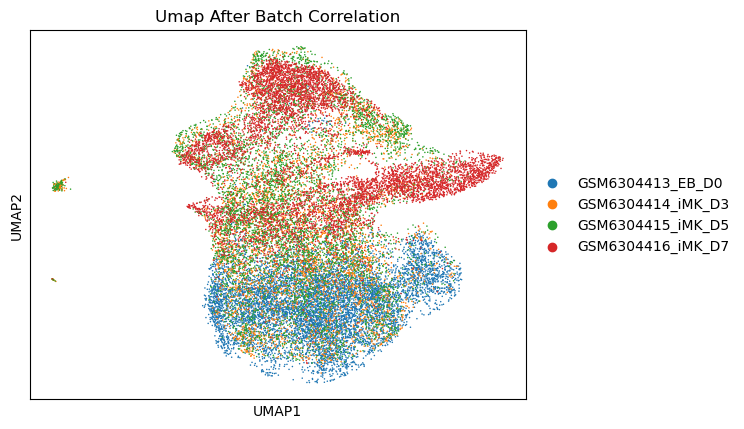
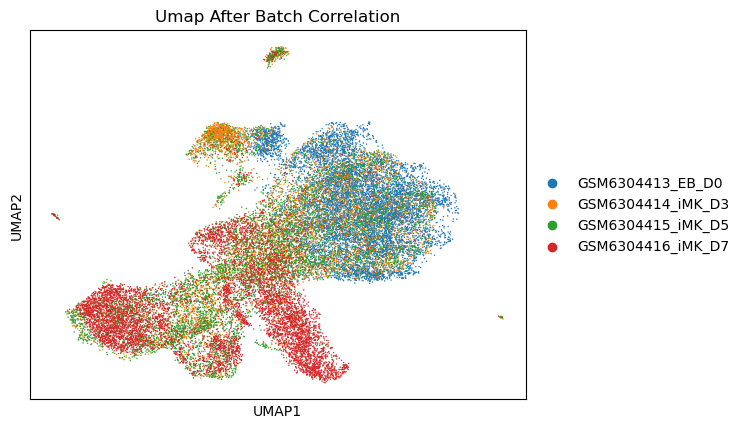
Update cell annotation

Changed region(s): [[0.0927, 0.0909, 0.6801, 0.9091], [0.0618, 0.3939, 0.0927, 0.4545], [0.0618, 0.4848, 0.0927, 0.5152]]

diff --git a/pipeline.py b/pipeline.py
@@ -5,6 +5,7 @@ import matplotlib.pyplot as plt
 import numpy as np
 import pandas as pd
 import scanpy as sc
+import warnings
 
 # %%
 # Load datasets
@@ -29,58 +30,66 @@ for subdir in subdata_dirs:
 print(f"Loaded {len(adatas)} datasets.")
 
 # %%
-# filtering
-## 计算线粒体比例
-for i, ad in enumerate(adatas):
-    ad.var["mt"] = ad.var_names.str.startswith("MT-")
-    sc.pp.calculate_qc_metrics(
-        ad, qc_vars=["mt"], percent_top=None, log1p=False, inplace=True
-    )
+# Merge datasets BEFORE QC
+adata_raw_combined = adatas[0].concatenate(
+    adatas[1:],
+    batch_key="sample",  # 标记原始来源
+    batch_categories=subdata_dirs,  # 名称
+    index_unique="-",
+)
 
-## 绘制QC前指标
-fig, axes = plt.subplots(3, 4, figsize=(12, 8))
-plt.suptitle("Before QC")
+# 计算线粒体比例并做 QC metrics
+adata_raw_combined.var["mt"] = adata_raw_combined.var_names.str.startswith("MT-")
+sc.pp.calculate_qc_metrics(
+    adata_raw_combined, qc_vars=["mt"], percent_top=None, log1p=False, inplace=True
+)
+
+# 绘制 QC 前整体指标（不分组）
 metrics = ["n_genes_by_counts", "total_counts", "pct_counts_mt"]
-for row_idx, metric in enumerate(metrics):
-    for col_idx, ad in enumerate(adatas):
-        sc.pl.violin(ad, [metric], jitter=0.4, ax=axes[row_idx, col_idx], show=False)
-        # Set titles only for top row and leftmost column for clarity
-        if row_idx == 0:
-            axes[row_idx, col_idx].set_title(titles[col_idx])
-        if col_idx == 0:
-            axes[row_idx, col_idx].set_ylabel(metric.replace("_", " ").title())
+fig, axes = plt.subplots(1, 3, figsize=(14, 4))
+plt.suptitle("Before QC (Merged Overall)")
+for i, metric in enumerate(metrics):
+    sc.pl.violin(
+        adata_raw_combined,
+        [metric],
+        jitter=0.4,
+        ax=axes[i],
+        show=False,
+    )
+    axes[i].set_ylabel(metric.replace("_", " ").title())
+    axes[i].set_title(metric.replace("_", " ").title())
 plt.tight_layout()
 plt.savefig("figures/1c_1.png")
 
-## 绘制QC后指标
-adata_new = []
-for i, ad in enumerate(adatas):
-    ad_filtered = ad[(ad.obs.n_genes_by_counts > 2500) & (ad.obs.pct_counts_mt < 15)].copy()
-    sc.pp.filter_cells(ad_filtered, min_genes=200)
-    sc.pp.filter_genes(ad_filtered, min_cells=3)
-    adata_new.append(ad_filtered)
-    del ad  # 释放内存
+# 过滤（merged data）
+adata_combined = adata_raw_combined[
+    (adata_raw_combined.obs.total_counts >= 2500)
+    & (adata_raw_combined.obs.pct_counts_mt < 15)
+].copy()
+sc.pp.filter_cells(adata_combined, min_genes=200)
+sc.pp.filter_genes(adata_combined, min_cells=3)
 
-fig, axes = plt.subplots(3, 4, figsize=(12, 8))
-plt.suptitle("After QC")
-metrics = ["n_genes_by_counts", "total_counts", "pct_counts_mt"]
-for row_idx, metric in enumerate(metrics):
-    for col_idx, ad in enumerate(adata_new):  # 使用过滤后的数据
-        sc.pl.violin(ad, [metric], jitter=0.4, ax=axes[row_idx, col_idx], show=False)
-        # Set titles only for top row and leftmost column for clarity
-        if row_idx == 0:
-            axes[row_idx, col_idx].set_title(titles[col_idx])
-        if col_idx == 0:
-            axes[row_idx, col_idx].set_ylabel(metric.replace("_", " ").title())
+# 绘制 QC 后整体指标
+fig, axes = plt.subplots(1, 3, figsize=(14, 4))
+plt.suptitle("After QC (Merged Overall)")
+for i, metric in enumerate(metrics):
+    sc.pl.violin(
+        adata_combined,
+        [metric],
+        jitter=0.4,
+        ax=axes[i],
+        show=False,
+    )
+    axes[i].set_ylabel(metric.replace("_", " ").title())
+    axes[i].set_title(metric.replace("_", " ").title())
 plt.tight_layout()
 plt.savefig("figures/1c_2.png")
 
-# 对过滤后的数据进行标准化
-for i, ad in enumerate(adata_new):
-    sc.pp.normalize_total(ad, target_sum=1e4)
-    sc.pp.log1p(ad)
-    
-print("QC and normalization completed.")
+# 对过滤后的 merged 数据进行标准化
+sc.pp.normalize_total(adata_combined, target_sum=1e4)
+sc.pp.log1p(adata_combined)
+
+print("QC and normalization completed on merged data.")
 
 # %%
 # 2. Batch Effect (Harmony)
@@ -88,18 +97,14 @@ import scanpy.external as sce
 
 print("Starting batch effect correction with Harmony...")
 ## 合并数据
-adata_combined = adata_new[0].concatenate(
-    adata_new[1:],
-    batch_key="sample",  # 标记原始来源
-    batch_categories=subdata_dirs,  # 名称
-    index_unique="-",
-)
+# 数据已在 QC 前合并并过滤，直接复用 adata_combined
 
 ## High variable genes: 计算高变基因但不进行过滤，保留所有基因用于后续标记基因分析（否则可能找不到marker）
 sc.pp.highly_variable_genes(
-    adata_combined, min_mean=0.0125, 
-    max_mean=3, min_disp=0.5, 
-    batch_key="sample"
+    adata_combined, 
+    n_top_genes=2000,  # Match paper
+    batch_key="sample",
+    flavor='seurat'
 )
 
 ### 转化为稀疏矩阵以节省内存
@@ -110,7 +115,7 @@ if not sp.issparse(adata_combined.X):
 
 # 只使用高变基因进行降维，但保留所有基因在数据中
 adata_combined.layers["scaled"] = adata_combined.X.copy()
-sc.pp.scale(adata_combined, max_value=10, layer="scaled", zero_center=False)
+sc.pp.scale(adata_combined, max_value=10, layer="scaled", zero_center=True)
 sc.tl.pca(adata_combined, svd_solver="arpack", use_highly_variable=True)
 adata_before = adata_combined.copy()
 
@@ -131,23 +136,22 @@ sc.pl.umap(
     color="sample",
     title="Umap Before Batch Correlation",
     save="3b_1_UMAP_Before.png",
-    show=False,
+    show=True,
 )
 sc.pl.umap(
     adata_combined,
     color="sample",
     title="Umap After Batch Correlation",
     save="3b_2_UMAP_After.png",
-    show=False,
+    show=True,
 )
 
 sc.tl.tsne(adata_before, use_rep="X_pca")
-sc.pl.tsne(adata_before, color="sample", save="3b_3_tSNE_Before.png", show=False)
+sc.pl.tsne(adata_before, color="sample", save="3b_3_tSNE_Before.png", show=True)
 del adata_before  # 释放内存
 
 sc.tl.tsne(adata_combined, use_rep="X_pca_harmony")
-sc.pl.tsne(adata_combined, color="sample", save="3b_3_tSNE_After.png", show=False)
-
+sc.pl.tsne(adata_combined, color="sample", save="3b_3_tSNE_After.png", show=True)
 adata_combined.write('./data/adata_processed.h5ad')
 print("Batch effect correction completed and data saved.")
 
@@ -160,70 +164,137 @@ print("Memory released.")
 # %%
 # 3. Cell Clustering and Annotation
 
+import scanpy as sc
+import numpy as np
+import pandas as pd
+import matplotlib.pyplot as plt
+
 ## Load processed data
 adata = sc.read('./data/adata_processed.h5ad')
 
-## Marker Genes from Figure 5e
-megakaryocyte_markers = ["ITGA3", "ITGA6", "GP1BA", "GP9", "F2R"]
-erythroid_markers = ["GYPA", "KLF1", "EPB42"]
-progenitor_markers = ["ANXA1", "CD44", "LMO4"]
-cd53_marker = ["CD53"]
+eryth_genes = ["GYPA", "KLF1", "EPB42"]
+prog_genes = ["ANXA1", "CD44", "LMO4"]
+mega_genes = ["ITGA3", "ITGA6", "GP1BA", "GP9", "F2R"]
+cd53_genes = ["CD53"]
 
+# Leiden clustering, resolution is the same as paper
+sc.tl.leiden(adata, resolution=1.5e-5, key_added='leiden')
 
-## Cluster
-sc.tl.leiden(adata, resolution=0.5)
-sc.tl.rank_genes_groups(adata, 'leiden', method='wilcoxon')
+print(f"Number of clusters: {adata.obs['leiden'].nunique()}")
+print(f"Cluster sizes:\n{adata.obs['leiden'].value_counts().sort_index()}")
 
-sc.pl.dotplot(adata,
-              megakaryocyte_markers + erythroid_markers +
-              progenitor_markers + cd53_marker,
-              groupby='leiden',
-              save="3a_markers_dotplot.png")
+# CALCULATE GENE SCORES
+sc.tl.score_genes(adata, eryth_genes, score_name='erythroid_score')
+sc.tl.score_genes(adata, prog_genes, score_name='progenitor_score')
+sc.tl.score_genes(adata, mega_genes, score_name='megakaryocyte_score')
 
-## 用scanpy内置的scoring功能annotate
-def annotation_with_scoring(adata):
-    # 计算每组基因的score
-    sc.tl.score_genes(adata, megakaryocyte_markers, score_name='mega_score')
-    sc.tl.score_genes(adata, erythroid_markers, score_name='eryth_score')
-    sc.tl.score_genes(adata, progenitor_markers, score_name='prog_score')
-    
-    # 基于score注释
-    def assign_celltype(row):
-        scores = {
-            'mega': row['mega_score'],
-            'eryth': row['eryth_score'],
-            'prog': row['prog_score']
-        }
-        
-        max_score_type = max(scores, key=scores.get)
-        
-        if max_score_type == 'eryth':
-            if scores['prog'] > scores['eryth'] * 0.5:
-                return "C2: EB-like"
-            return "C1: EB"
-        elif max_score_type == 'prog':
-            return "C3: iPEM"
-        elif max_score_type == 'mega':
-            if row['CD53'] > adata.obs['CD53'].median():
-                return "C5: iMK-2"
-            return "C4: iMK-1"
-        return "Unknown"
-    
-    # 获取CD53表达
+# Get CD53 expression
+if 'CD53' in adata.var_names:
     cd53_expr = adata[:, 'CD53'].X
     if hasattr(cd53_expr, 'toarray'):
         cd53_expr = cd53_expr.toarray().flatten()
-    adata.obs['CD53'] = cd53_expr
+    else:
+        cd53_expr = cd53_expr.flatten()
+    adata.obs['CD53_expression'] = cd53_expr
+else:
+    adata.obs['CD53_expression'] = 0
+    print("Warning: CD53 not found")
+
+# ANNOTATE CELL TYPES
+# Normalize scores to 0-1 range for comparison
+for score in ['erythroid_score', 'progenitor_score', 'megakaryocyte_score']:
+    score_min = adata.obs[score].min()
+    score_max = adata.obs[score].max()
+    adata.obs[f'{score}_norm'] = (adata.obs[score] - score_min) / (score_max - score_min)
+
+def assign_celltype_minimal(row):
+    """
+    Minimal annotation based only on gene expression scores.
+    Logic:
+    - High erythroid, low mega → C1 (EB)
+    - Medium erythroid + progenitor → C2 (EB-like)
+    - High progenitor OR balanced eryth+mega → C3 (iPEM)
+    - High mega + low CD53 → C4 (iMK-1)
+    - High mega + high CD53 → C5 (iMK-2)
+    """
     
-    adata.obs['cell_type_v2'] = adata.obs.apply(assign_celltype, axis=1)
+    eryth = row['erythroid_score_norm']
+    prog = row['progenitor_score_norm']
+    mega = row['megakaryocyte_score_norm']
+    cd53 = row['CD53_expression']
     
-    return adata
+    # Thresholds
+    HIGH = 0.6
+    MED = 0.35
+    LOW = 0.25
+    
+    # C1: EB - Dominant erythroid
+    if eryth > HIGH and mega < LOW:
+        return "C1_EB"
+    
+    # C2: EB-like - Erythroid with emerging progenitor features
+    if eryth > MED and prog > MED and mega < MED:
+        return "C2_EB-like"
+    
+    # C3: iPEM - High progenitor OR balanced intermediate state
+    if prog > HIGH:
+        return "C3_iPEM"
+    if eryth > MED and mega > MED and abs(eryth - mega) < 0.3:
+        return "C3_iPEM"
+    
+    # C4/C5: iMK - Dominant megakaryocyte
+    if mega > HIGH:
+        cd53_median = adata.obs['CD53_expression'].median()
+        if cd53 > cd53_median:
+            return "C5_iMK-2"
+        else:
+            return "C4_iMK-1"
 
-adata = annotation_with_scoring(adata)
+    return f"unknown"
 
-sc.pl.umap(adata, 
-           color=['leiden', 'cell_type'], 
-           save="3b_annotated_clusters.png")
+adata.obs['cell_type'] = adata.obs.apply(assign_celltype_minimal, axis=1)
 
+# 1. UMAP with annotations
+fig, axes = plt.subplots(2, 2, figsize=(15, 10))
 
-# %%
+sc.pl.umap(adata, color='cell_type', ax=axes[0, 0], show=False, title='Cell Type')
+sc.pl.umap(adata, color='erythroid_score', ax=axes[0, 1], show=False, 
+           title='Erythroid Score', cmap='Reds')
+sc.pl.umap(adata, color='progenitor_score', ax=axes[1, 0], show=False,
+           title='Progenitor Score', cmap='Greens')
+sc.pl.umap(adata, color='megakaryocyte_score', ax=axes[1, 1], show=False,
+           title='Megakaryocyte Score', cmap='Blues')
+
+plt.tight_layout()
+plt.show()
+
+# 2. Dotplot of marker genes
+all_markers = eryth_genes + prog_genes + mega_genes + cd53_genes
+sc.pl.dotplot(adata, all_markers, groupby='cell_type',
+              figsize=(8, 4))
+
+# 3. Stacked violin plots
+sc.pl.stacked_violin(adata, all_markers, groupby='cell_type',
+                     figsize=(10, 4))
+# 4. Score distributions by cell type
+fig, axes = plt.subplots(1, 3, figsize=(15, 4))
+
+cell_types = adata.obs['cell_type'].cat.categories
+scores = ['erythroid_score', 'progenitor_score', 'megakaryocyte_score']
+titles = ['Erythroid Score', 'Progenitor Score', 'Megakaryocyte Score']
+
+for idx, (score, title) in enumerate(zip(scores, titles)):
+    data = [adata.obs[adata.obs['cell_type'] == ct][score].values 
+            for ct in cell_types]
+    axes[idx].violinplot(data, positions=range(len(cell_types)), 
+                         showmeans=True, showmedians=True)
+    axes[idx].set_xticks(range(len(cell_types)))
+    axes[idx].set_xticklabels(cell_types, rotation=45, ha='right')
+    axes[idx].set_ylabel('Score')
+    axes[idx].set_title(title)
+    axes[idx].grid(True, alpha=0.3)
+
+plt.tight_layout()
+plt.show()
+
+print("Analysis completed.")
